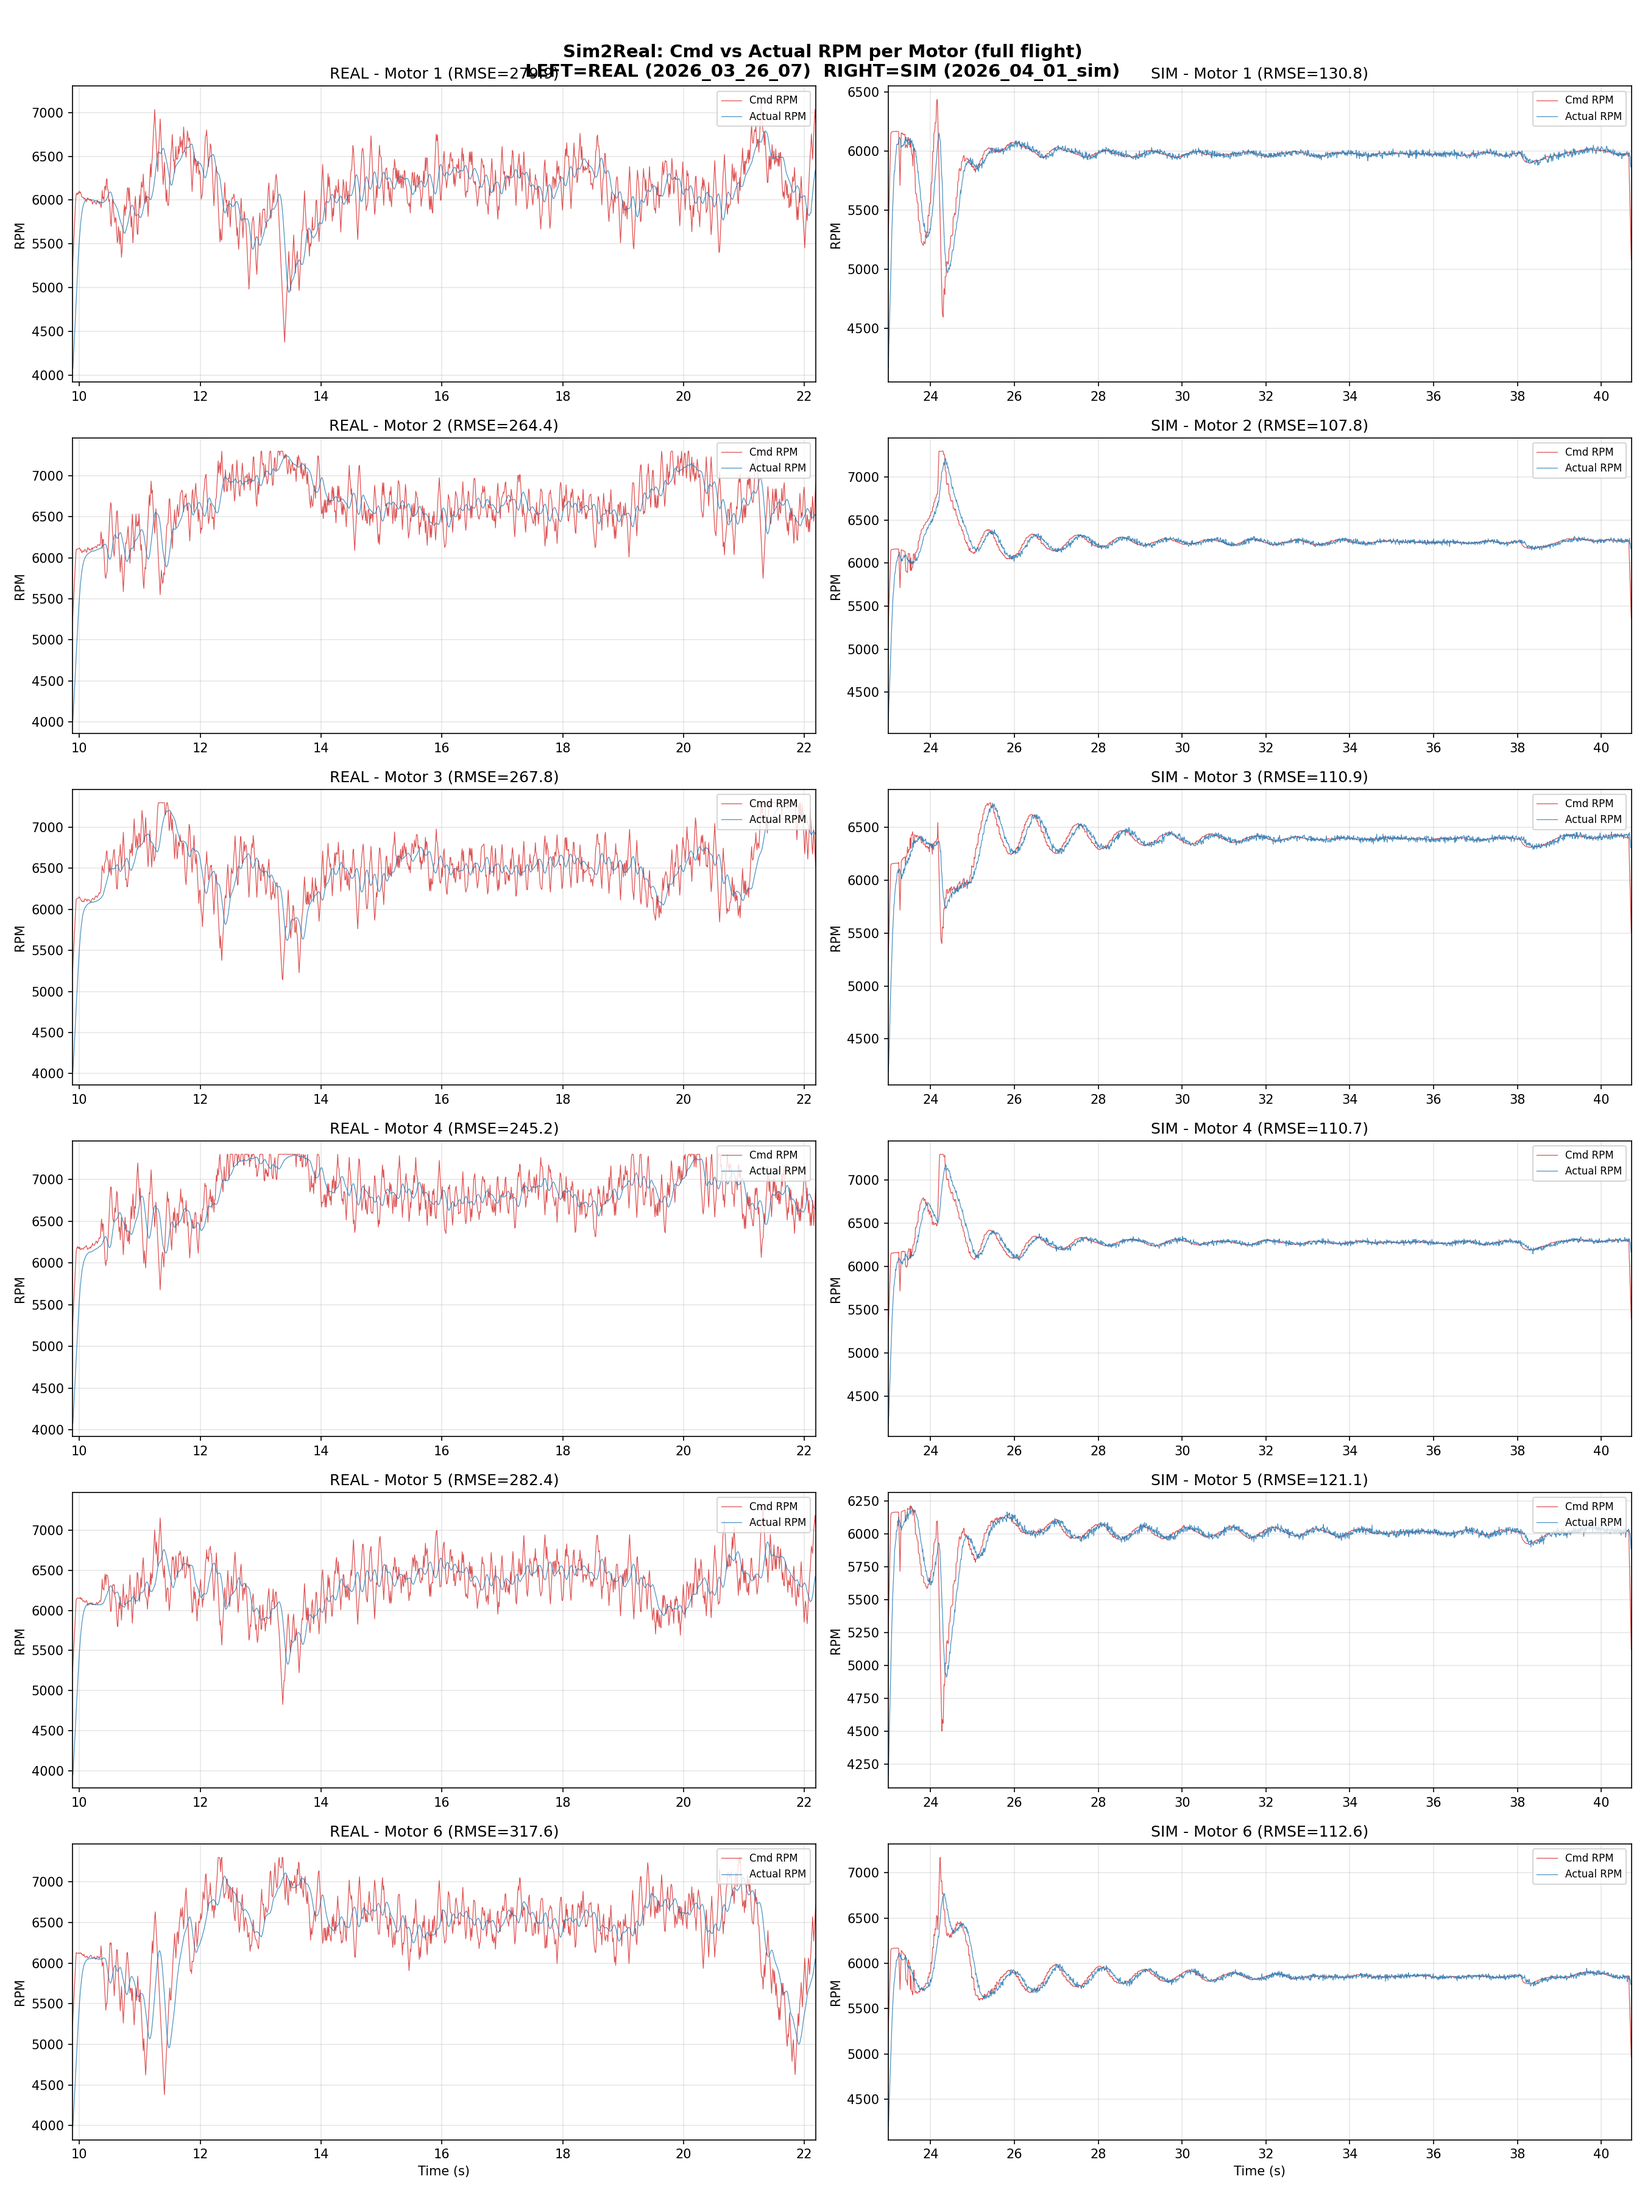
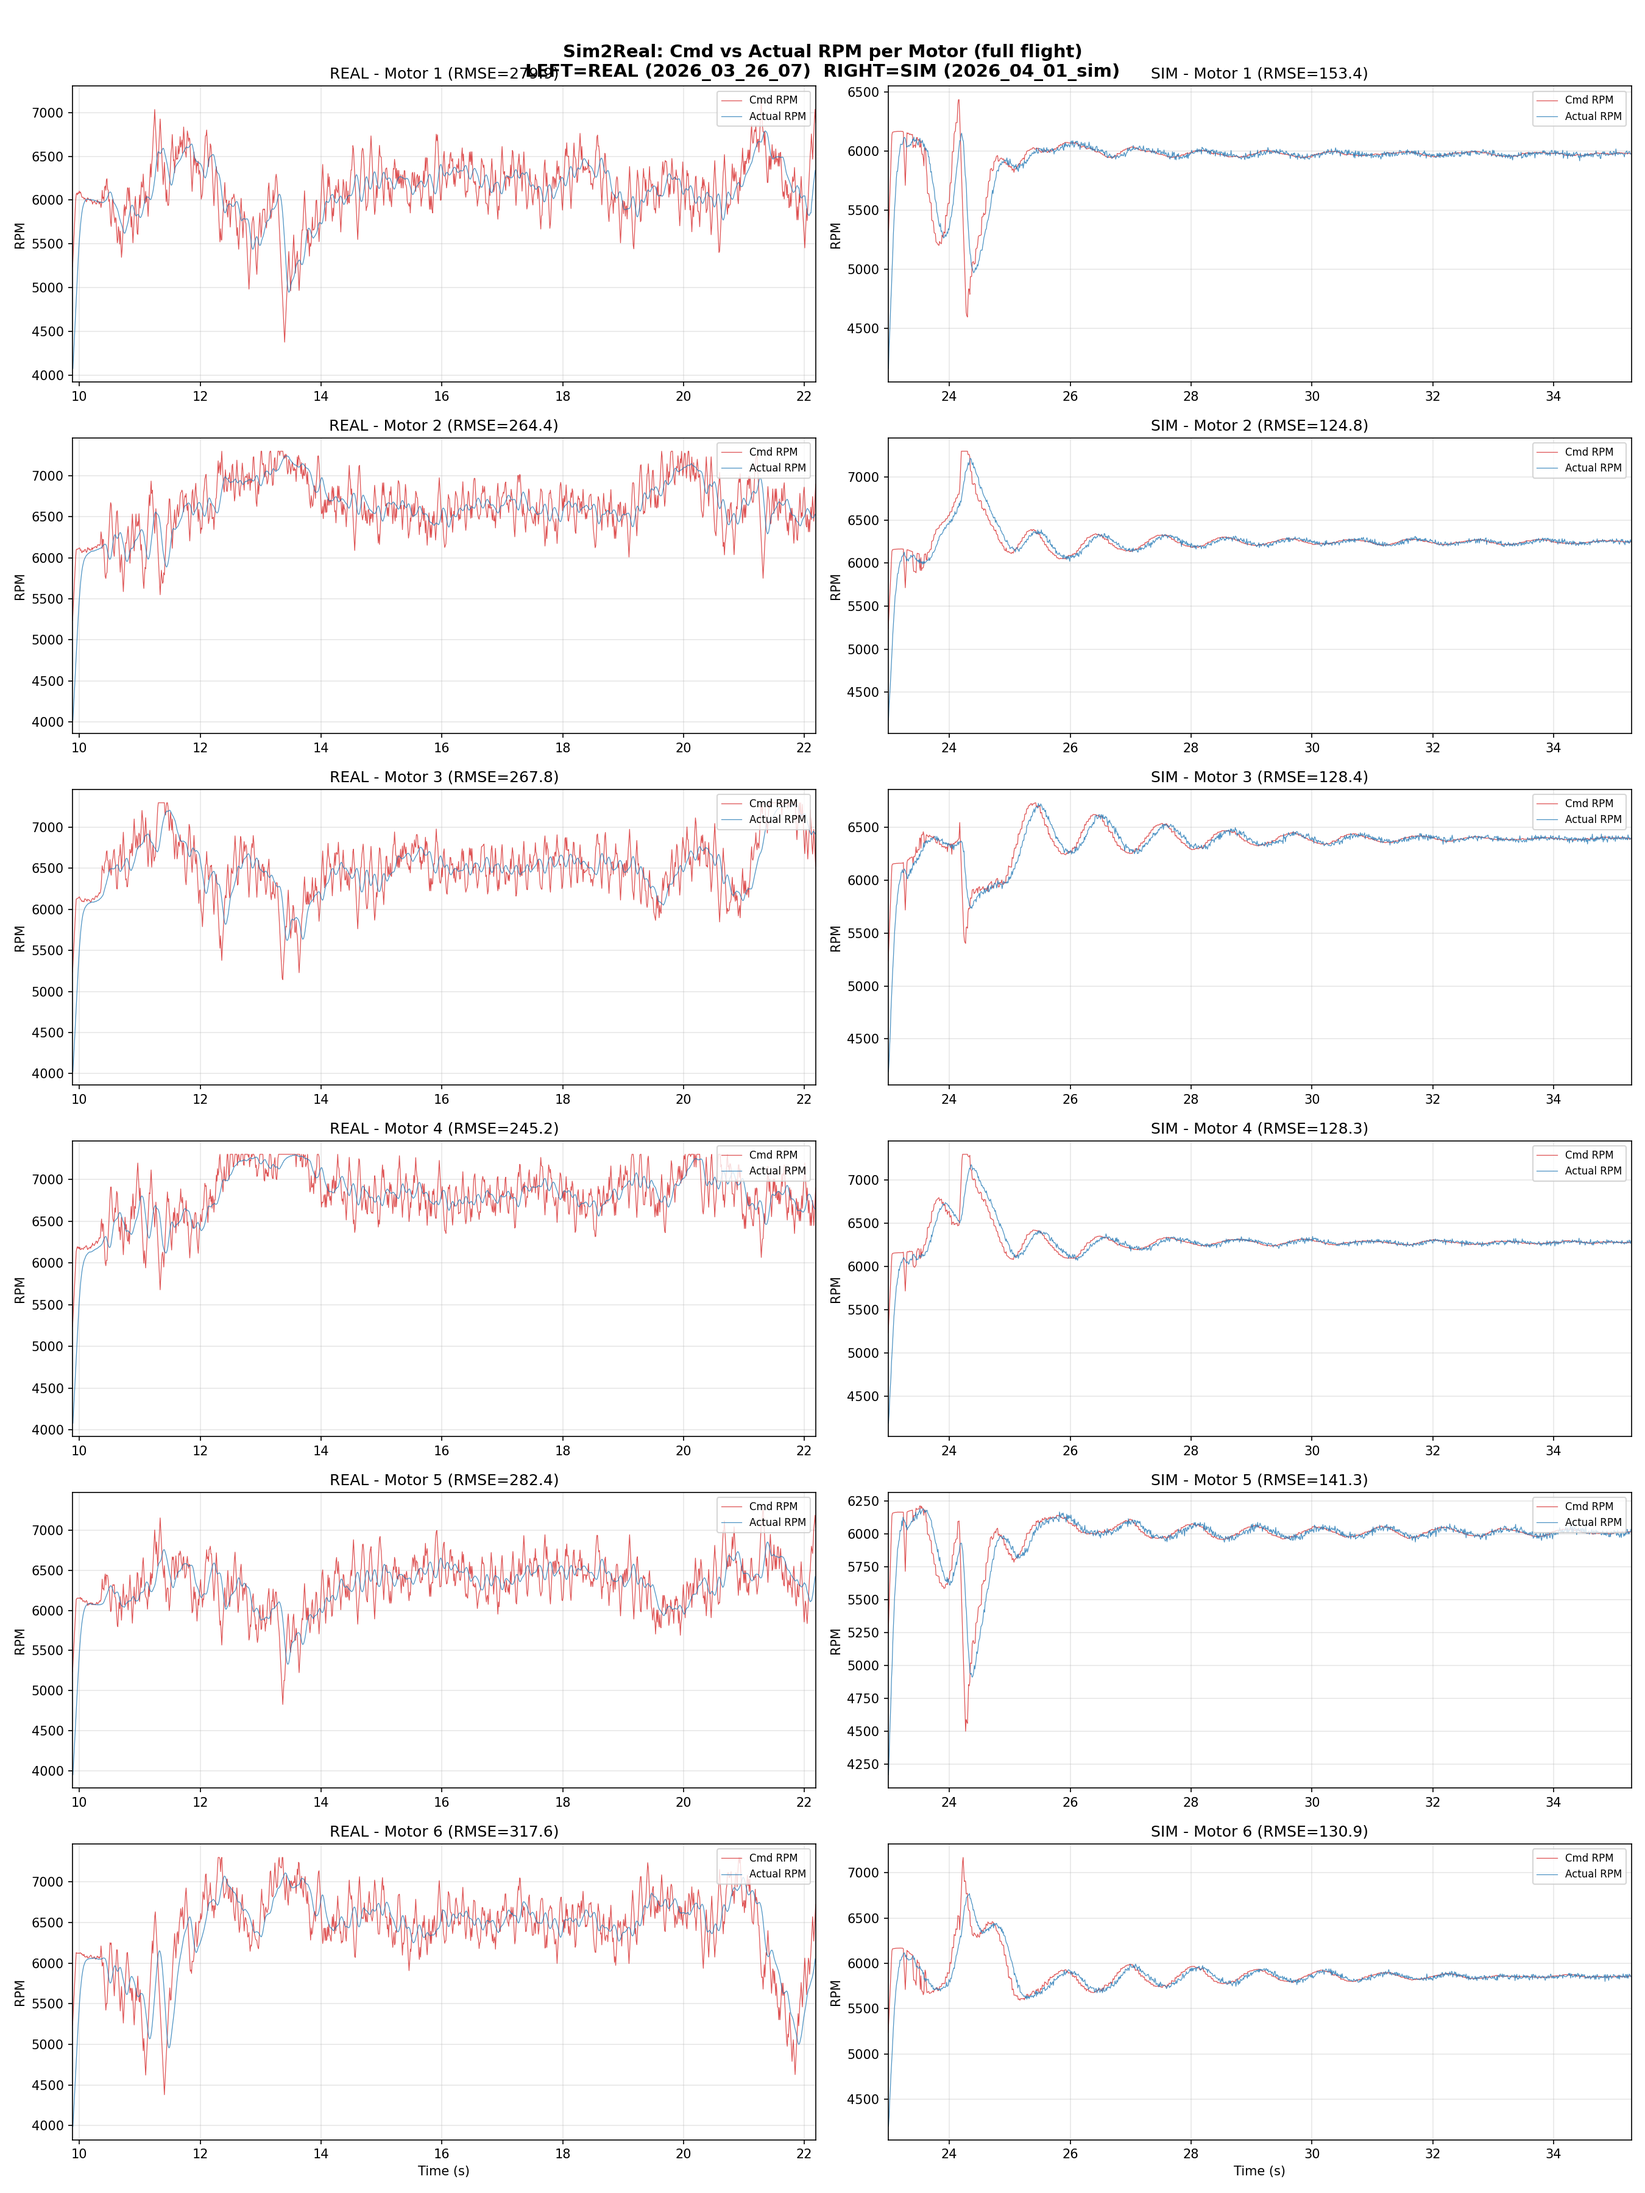
Match SIM duration to REAL2 flight time for fair RMSE comparison
https://claude.ai/code/session_015hDTXF7MWidPDJrsc9iZ1y

diff --git a/bag_folder/sim2real_comparison.py b/bag_folder/sim2real_comparison.py
@@ -501,9 +501,10 @@ print(f"{'='*50}")
 print(f"  {'Motor':<10} {'REAL2':>12} {'SIM':>12}")
 print(f"  {'-'*34}")
 
+real2_duration = real2_end - real2_start
 for col, (d, name, fs, fe) in enumerate([
     (real2, 'REAL', real2_start, real2_end),
-    (sim, 'SIM', sim_start, sim_end),
+    (sim, 'SIM', sim_start, sim_start + real2_duration),
 ]):
     rpm_mask = (d['rpm_t'] >= fs) & (d['rpm_t'] <= fe)
     cmd_mask = (d['cmd_t'] >= fs) & (d['cmd_t'] <= fe)
